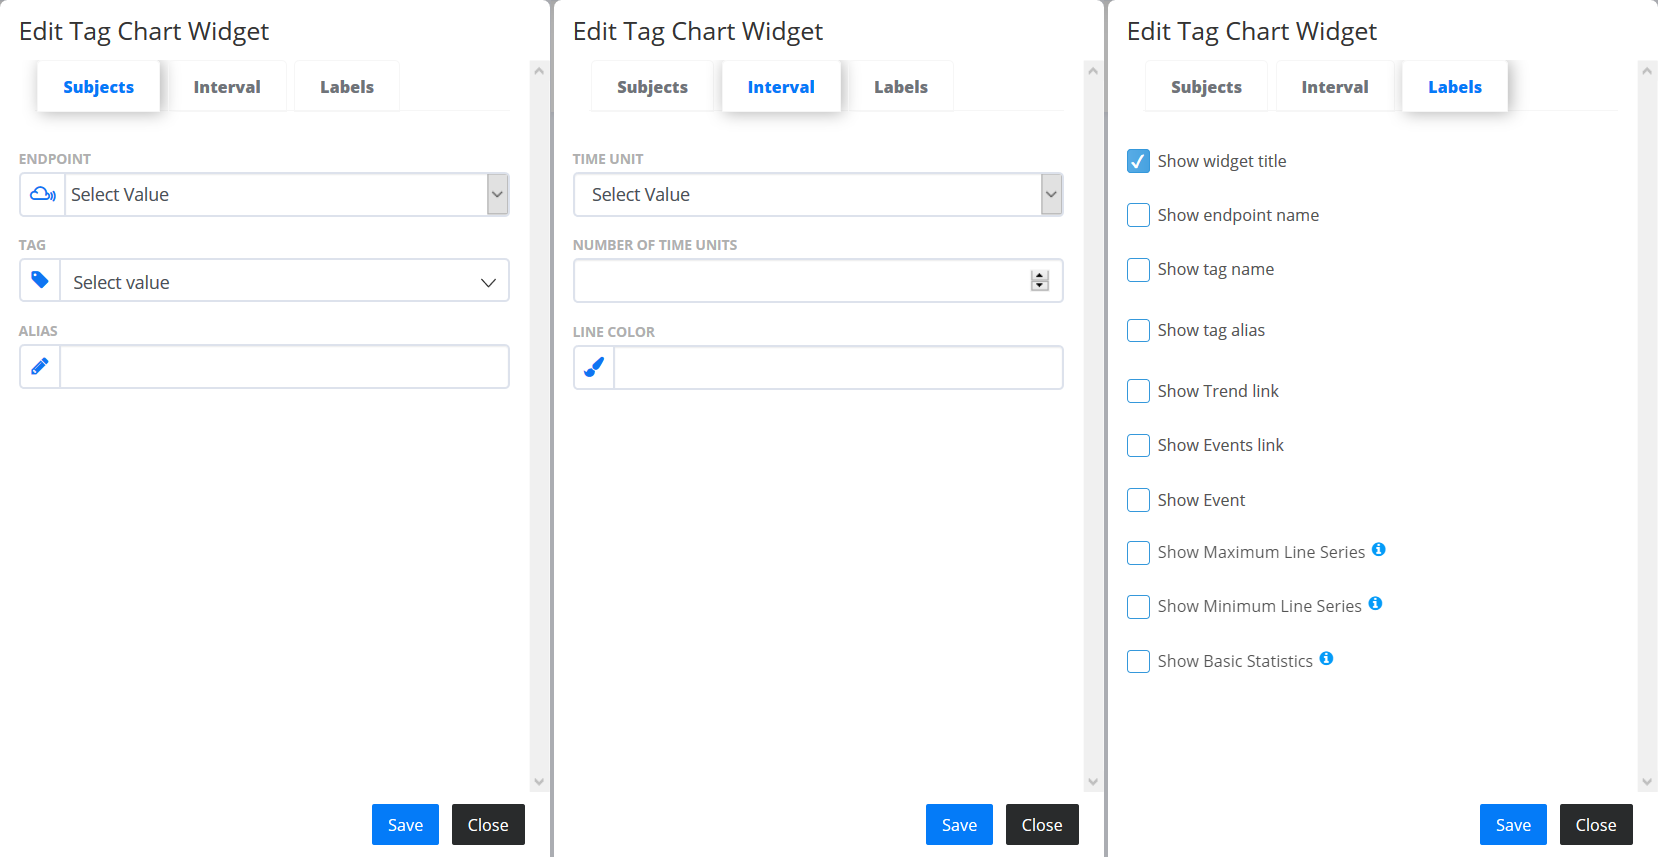
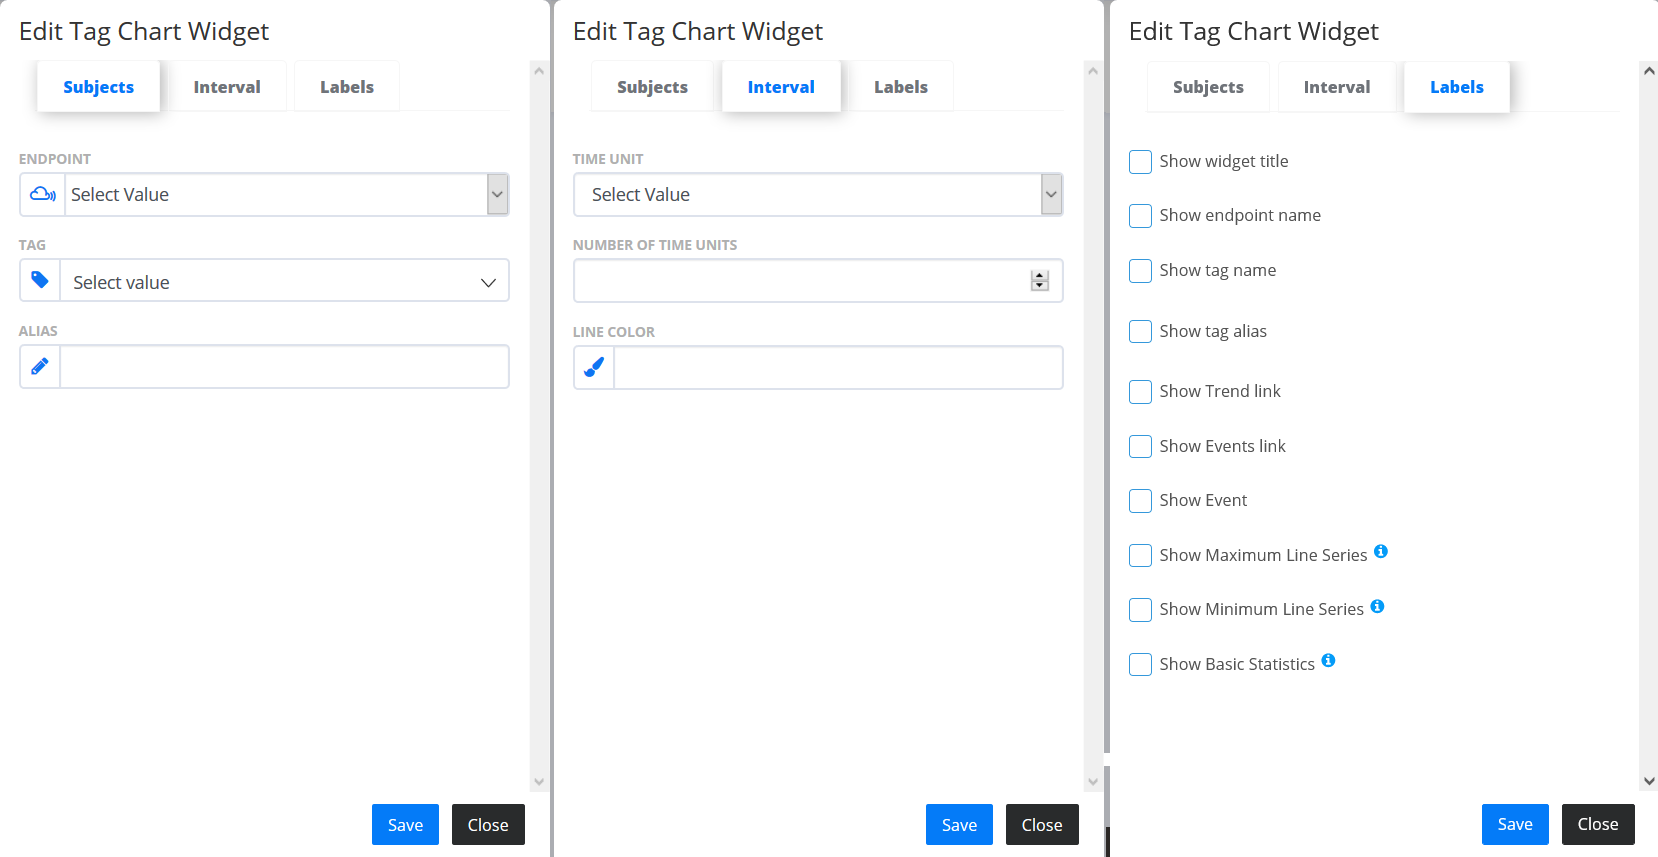
tag chart widget menu image update

diff --git a/docs/support/release-notes/index.html b/docs/support/release-notes/index.html
@@ -148,21 +148,6 @@ if (!doNotTrack) {
         
         <a class="nav-link p-0" href="/support/"><h6>Support</h6></a>
         <ul class="list-unstyled ml-2">
-    <li data-nav-id="/support/documentation/" class="nav-item my-1
-        ">
-        
-        <a class="nav-link p-0" href="/support/documentation/"><h6>Documentation</h6></a>
-    </li>
-    <li data-nav-id="/support/release-notes/" class="nav-item my-1 parent active
-        ">
-        
-        <a class="nav-link p-0" href="/support/release-notes/"><h6>Release Notes</h6></a>
-    </li>
-    <li data-nav-id="/support/submit-ticket/" class="nav-item my-1
-        ">
-        
-        <a class="nav-link p-0" href="/support/submit-ticket/"><h6>Submit Ticket</h6></a>
-    </li>
         </ul>
     </li>
     <li data-nav-id="/glossary/" class="nav-item my-1
